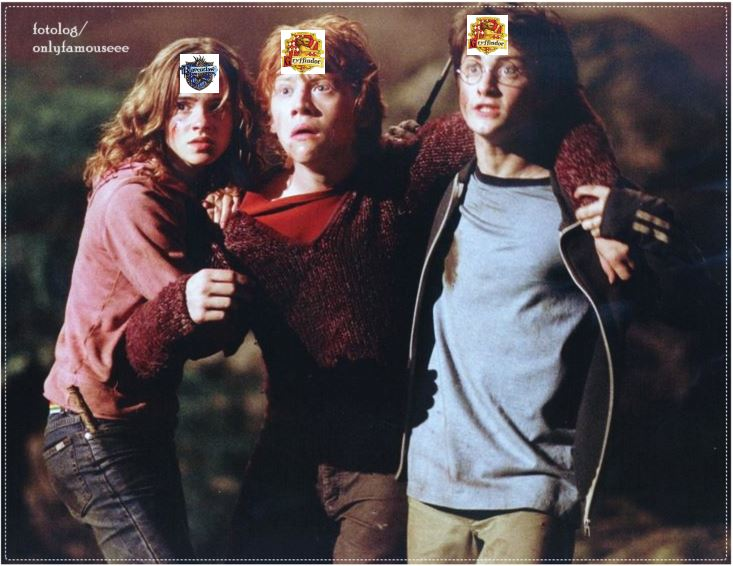
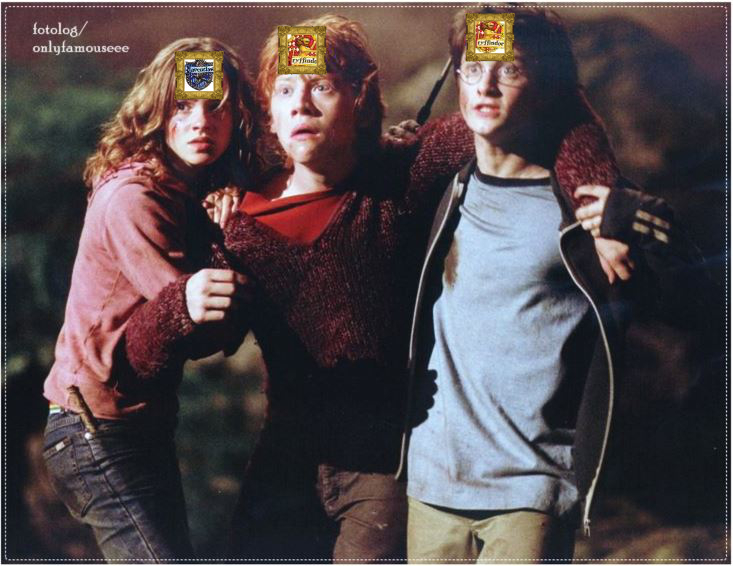
Remove background for badges

Changed region(s): [[0.3602, 0.03, 0.4502, 0.1502], [0.6303, 0.0, 0.7203, 0.1201], [0.2401, 0.0901, 0.3302, 0.1802]]

diff --git a/emotionFace.js b/emotionFace.js
@@ -58,21 +58,21 @@ function submitUrl() {
         if ( grif > sly && grif > huff && grif > rave ) { house = "G";
             $('<div>', {
                  class: 'house',
-                 style: 'background-image: url("Gryffindor.jpg"); top: ' + forehead + 'px; left: ' + faceCenter + 'px; opacity:1; background-size: ' + houseSize + 'px; width: ' +houseSize+'px; height: '+houseSize+ 'px; position: fixed;'  }).appendTo('#ontop');
+                 style: 'background-image: url("Gryffindor.png"); top: ' + forehead + 'px; left: ' + faceCenter + 'px; opacity:1; background-size: ' + houseSize + 'px; width: ' +houseSize+'px; height: '+houseSize+ 'px; position: fixed;'  }).appendTo('#ontop');
        console.log("appended to Gryff");}
 
        // if slytherin
         if (sly >grif && sly>huff & sly > rave) {house ="S"; 
        $('<div>', {
                  class: 'house',
-                 style: 'background-image: url("Slytherin.jpg"); top: ' + forehead + 'px; left: ' + faceCenter + 'px; opacity:1; background-size: ' + houseSize + 'px; width: ' +houseSize+'px; height: '+houseSize+ 'px; position: fixed;'  }).appendTo('#ontop');
+                 style: 'background-image: url("Slytherin.png"); top: ' + forehead + 'px; left: ' + faceCenter + 'px; opacity:1; background-size: ' + houseSize + 'px; width: ' +houseSize+'px; height: '+houseSize+ 'px; position: fixed;'  }).appendTo('#ontop');
        console.log("appended to Sly");}
 
        //if Huff
         if (huff> grif && huff > sly && huff >rave) {house = "H"; 
         $('<div>', {
                  class: 'house',
-                 style: 'background-image: url("Hufflepuff.jpg"); top: ' + forehead + 'px; left: ' + faceCenter + 'px; opacity:1; background-size: ' + houseSize + 'px; width: ' +houseSize+'px; height: '+houseSize+ 'px; position: fixed;'  }).appendTo('#ontop');
+                 style: 'background-image: url("Hufflepuff.png"); top: ' + forehead + 'px; left: ' + faceCenter + 'px; opacity:1; background-size: ' + houseSize + 'px; width: ' +houseSize+'px; height: '+houseSize+ 'px; position: fixed;'  }).appendTo('#ontop');
        console.log("appended to Huff");}
 
 
@@ -80,7 +80,7 @@ function submitUrl() {
         if (rave > grif && rave > sly && rave> huff) {house ="R"; 
         $('<div>', {
                  class: 'house',
-                 style: 'background-image: url("RavenClaw.jpg"); top: ' + forehead + 'px; left: ' + faceCenter + 'px; opacity:1; background-size: ' + houseSize + 'px; width: ' +houseSize+'px; height: '+houseSize+ 'px; position: fixed;'  }).appendTo('#ontop');
+                 style: 'background-image: url("RavenClaw.png"); top: ' + forehead + 'px; left: ' + faceCenter + 'px; opacity:1; background-size: ' + houseSize + 'px; width: ' +houseSize+'px; height: '+houseSize+ 'px; position: fixed;'  }).appendTo('#ontop');
        console.log("appended to Raven");}
 
        $('ontop').css("height: 0px;");
